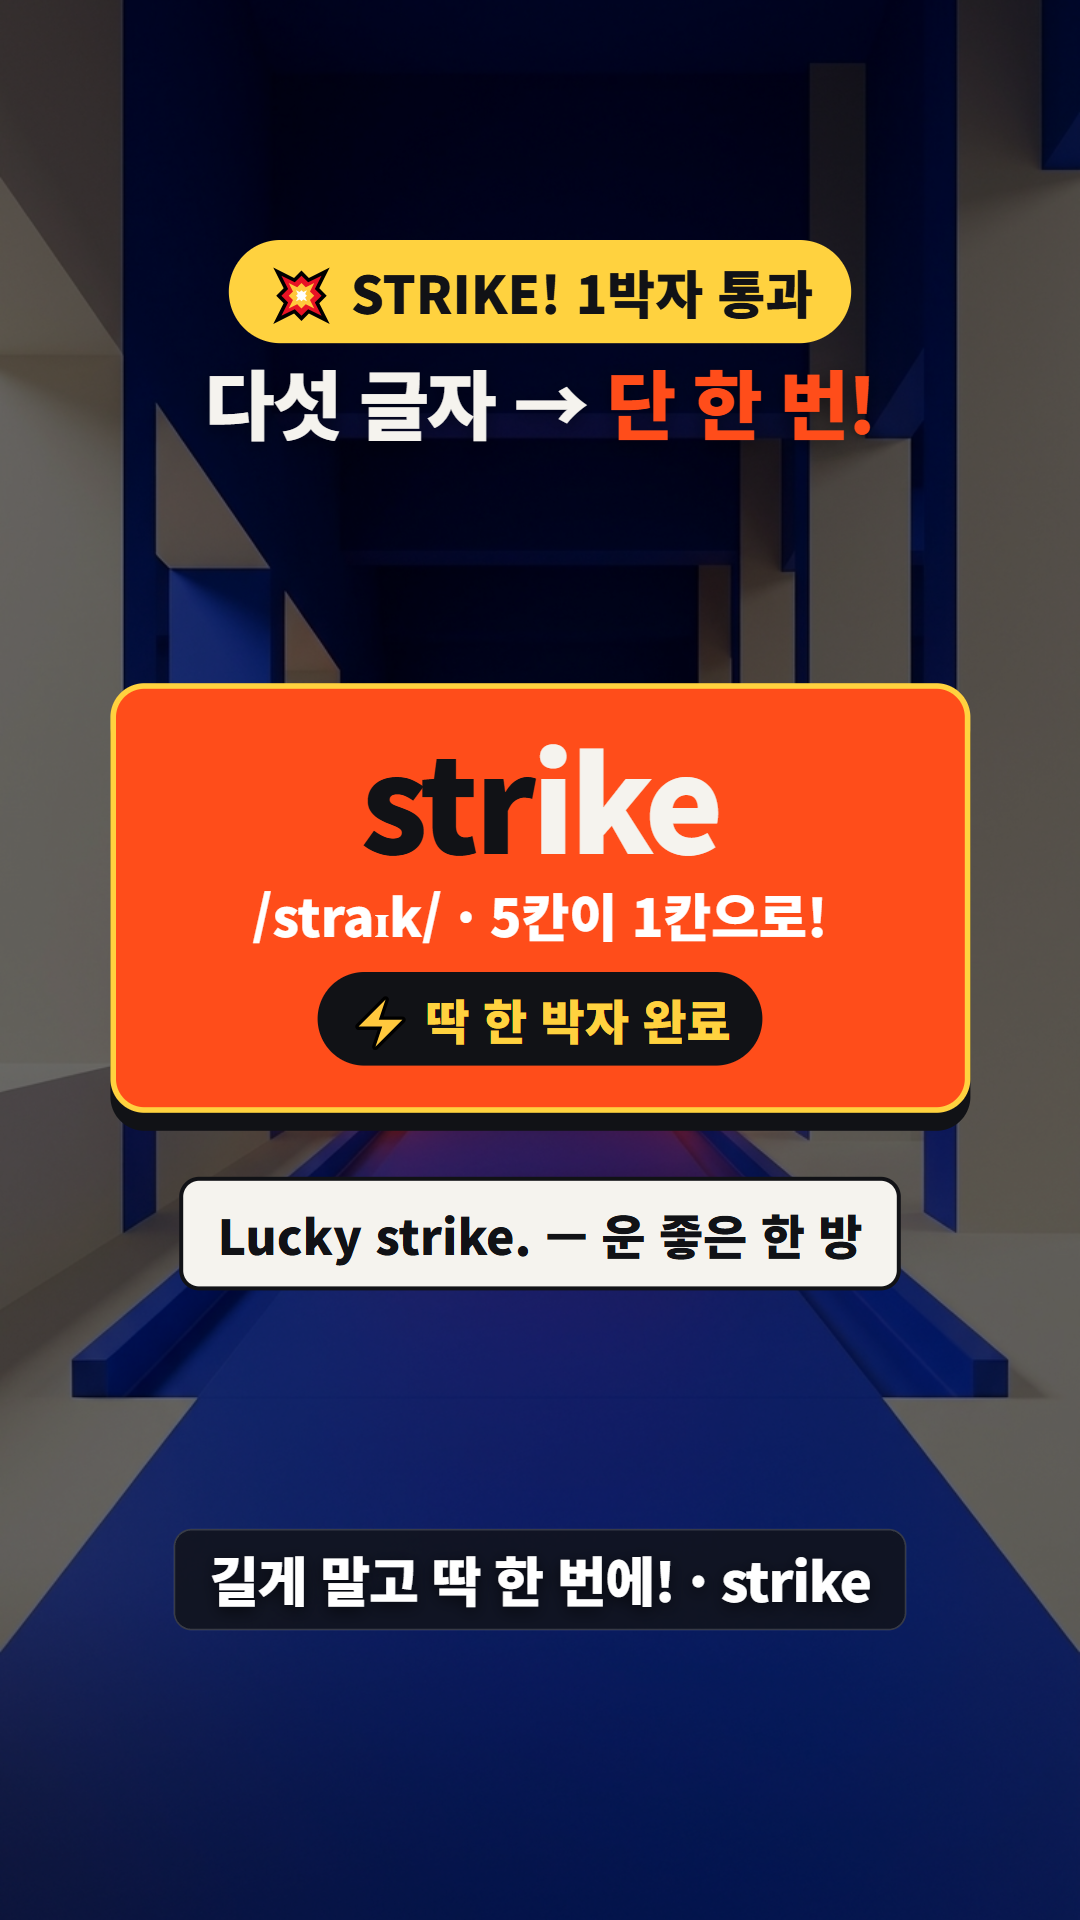
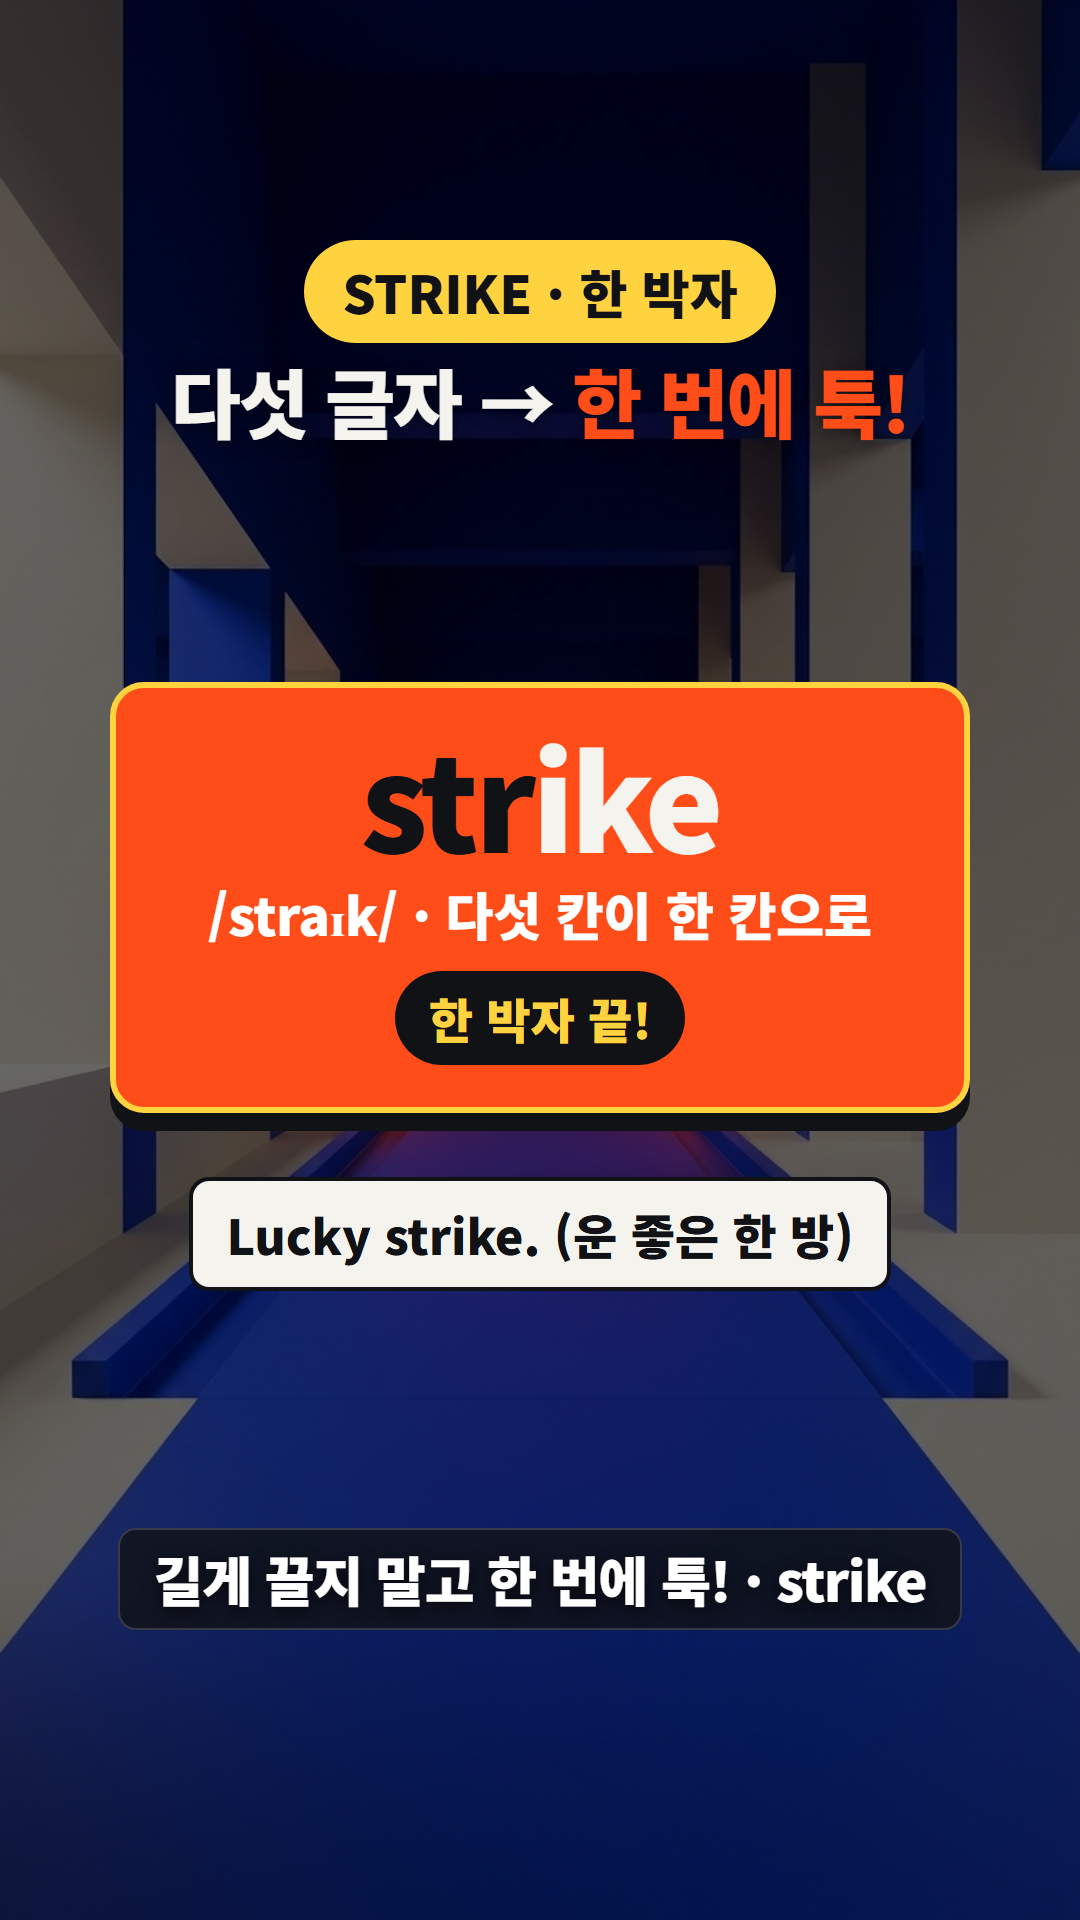
chore(ep34): slop-rewrite 기반 제목·썸네일·나레이션 AI 티 제거 및 시트·스토리보드 갱신

diff --git a/videos/ep34-shorts-consonant-cluster/FACT-CHECK.md b/videos/ep34-shorts-consonant-cluster/FACT-CHECK.md
@@ -1,6 +1,6 @@
 # 팩트 체크 — ep34-shorts-consonant-cluster (비교 시트 `ep34-shorts-consonant-cluster`)
 
-확인일: 2026-11-22.
+확인일: 2026-11-22 (`slop-rewrite` 윤문 반영).
 검증 기준: **Cambridge Dictionary (UK/US)** 발음기호(IPA)·음절 수, **국립국어원 외래어 표기법**(영어 표기 세칙), 한국인 영어 학습자 자음군 모음 삽입(Vowel Epenthesis) 음운론 근거 대조.
 ※ 주의: 검색 요약으로 확인한 항목은 `일부 확인` 또는 사전 직접 대조 기준을 명시하고, 실제 원어민 단어 음성(`assets/voice-en-clean/*.wav`)은 승인 후 생성 직후 청취·whisper 실측 대조한다.
 
@@ -32,15 +32,16 @@
 
 | 위치 | 주장 / 문구 | 판정 | 근거 및 검토 | 조치 |
 |---|---|---|---|---|
-| 제목 1안 | `스트레스, 원어민은 네 글자가 아니라 딱 한 박자로 말합니다` | 확인됨 | `stress`는 Cambridge 사전 1음절(`/stres/`), 한글 외래어 표기 `스트레스`는 4글자 | 유지 |
-| 제목 2안 | `스프레이·스크린·스트라이크, '으'를 넣는 순간 영어가 안 들립니다` | 일부 확인 | 모음 삽입으로 박자가 늘어나 원어민 음절 리듬과 괴리가 생기는 것은 음운론상 사실이나, "무조건 100% 안 들린다"로 과장하지 않고 본문·설명글에서 "다르게 들리기 쉽다"로 완화 | 설명글에 완화 문구 반영 완료 |
-| 컷 0 (`c00`) | `스트레스, 영어로 네 글자가 아닙니다.` | 확인됨 | `stress` 1음절 vs 한국어 `스트레스` 4글자. 귀로 듣기 점검: 중의적 오해 없음 | 유지 |
-| 컷 1 (`c01`) | `자음 사이 '으'를 빼면 한 박자입니다.` | 확인됨(쉬운 표현) | 한국어 음절 초성 제약(최대 1자음)으로 발생하는 모음 삽입(Vowel Epenthesis)을 전문용어 없이 정확히 풀어냄 | 유지 |
-| 컷 2~3 (`c02`, `c03`) | `첫째, 스트레스.` / `앞 자음은 바람만 스치세요.` (`No stress.`) | 확인됨 | `stress` `/stres/` 1음절, `No stress.` 일상 구어 자연스러움 확인 | 유지 |
-| 컷 4~5 (`c04`, `c05`) | `둘째, 스크린.` / `세 글자가 한 번에 뭉칩니다.` (`Big screen.`) | 확인됨 | `screen` `/skriːn/` 1음절, 한글 표기 `스크린` 3글자 정확 일치 | 유지 |
-| 컷 6~7 (`c06`, `c07`) | `셋째, 스프레이.` / `한 번 뿜듯 숨으로 뱉으세요.` (`Hair spray.`) | 확인됨 | `spray` `/spreɪ/` 1음절, 한글 표기 `스프레이` 4글자 정확 일치 | 유지 |
-| 컷 9~10 (`c09`, `c10`) | `다섯 글자, 한 박자에 도전!` / `길게 말고 딱 한 번에!` (`Lucky strike.`) | 확인됨 | `strike` `/straɪk/` 1음절, 한글 표기 `스트라이크` 5글자 정확 일치. 컷 9에서 정답 소리 선공개 없이 1.5초 참여 창 유지 | 유지 |
-| 컷 11 · 고정 댓글 | `spring`, `script`, `splash`, `street` 4단어 | 확인됨 | 4단어 모두 Cambridge 1음절·예문 문법 자연스러움 확인 | 유지 |
+| 제목 1안 | `스트레스, 영어로는 왜 한 박자밖에 안 될까요?` | 확인됨 | `stress`는 Cambridge 사전 1음절(`/stres/`), 한글 외래어 표기 `스트레스`는 4글자 | 유지 |
+| 제목 2안 | `스크린이랑 스프레이, 우리만 '으'를 넣어서 길어졌어요` | 확인됨 | 한국어 초성 1자음 음절 구조로 인해 `screen`(3글자)·`spray`(4글자) 표기·발음에 모음 `'으'`가 들어가 박자가 늘어남(한글 외래어 표기가 틀렸다는 뜻이 아님을 본문·설명글에서 명확히 구분) | 유지 |
+| 제목 3안 | `스트라이크 다섯 글자, 한 박자로 읽을 수 있나요?` | 확인됨 | `strike` `/straɪk/` 1음절 vs 한글 외래어 표기 `스트라이크` 5글자 | 유지 |
+| 컷 0 (`c00`) | `스트레스, 영어로는 한 번에 끝나요.` | 확인됨 | `stress` 1음절(`/stres/`). 귀로 듣기 점검: 중의적 오해 없음 | 유지 |
+| 컷 1 (`c01`) | `자음 사이 '으'만 쏙 빼면 되거든요.` | 확인됨(쉬운 표현) | 한국어 초성 제약으로 끼어드는 모음 삽입(Vowel Epenthesis)을 전문용어 없이 구어체로 정확히 풀어냄 | 유지 |
+| 컷 2~3 (`c02`, `c03`) | `스트레스부터!` / `앞엔 바람만 가볍게 스쳐요.` (`No stress.`) | 확인됨 | `stress` `/stres/` 1음절, `No stress.` 일상 구어 자연스러움 확인 | 유지 |
+| 컷 4~5 (`c04`, `c05`) | `스크린도 같아요.` / `세 글자가 한 번에 쫙 붙죠.` (`Big screen.`) | 확인됨 | `screen` `/skriːn/` 1음절, 한글 표기 `스크린` 3글자 정확 일치 | 유지 |
+| 컷 6~7 (`c06`, `c07`) | `스프레이는요?` / `칙 한 번 뿜듯 숨으로 뱉어요.` (`Hair spray.`) | 확인됨 | `spray` `/spreɪ/` 1음절, 한글 표기 `스프레이` 4글자 정확 일치 | 유지 |
+| 컷 9~10 (`c09`, `c10`) | `다섯 글자, 직접 해 볼까요?` / `길게 끌지 말고 한 번에 툭!` (`Lucky strike.`) | 확인됨 | `strike` `/straɪk/` 1음절, 한글 표기 `스트라이크` 5글자 정확 일치. 컷 9에서 정답 소리 선공개 없이 1.5초 참여 창 유지 | 유지 |
+| 컷 11 · 고정 댓글 | `고정 댓글에 네 단어 더 적어 뒀어요.` (`spring`, `script`, `splash`, `street`) | 확인됨 | 4단어 모두 Cambridge 1음절·예문 문법 자연스러움 확인 | 유지 |
 | 원어민 음성 | `stress`, `screen`, `spray`, `strike` 실제 생성 음원 | 청취 필요 | Gate 1 승인 후 AI Studio 원어민 음성 생성 시 단음절·끝소리 끊김 여부 청취·whisper 검증 예정 | 생성 후 청취 검증 |
 
 ---
@@ -49,4 +50,4 @@
 
 - **한국어 외래어 표기(`스트레스·스크린·스프레이·스트라이크`)가 틀린 한국어라는 뜻이 아니다**: 국립국어원 외래어 표기법은 한국어 음절 구조(초성 자음 최대 1개)에 맞춘 정확한 한글 표기다. 다만 **영어로 말하고 들을 때** 이 한글 글자 수대로 박자를 늘려 읽으면 원어민의 1박자 리듬과 크게 달라진다는 점을 짚는다.
 - **이중모음(`/eɪ/`, `/aɪ/`)의 미세한 울림**: `spray`(`/spreɪ/`), `strike`(`/straɪk/`)는 가운데 모음이 이중모음이라 단모음(`stress`)보다 입안 울림이 아주 약간 길지만, 영어 음운 체계상 모두 **엄연한 1음절(한 박자)** 단어다.
-- **시청자 귀로 듣기 점검**: 전체 12컷 낭독문에서 `"이 소리"`, `"이 둘도 똑같습니다"` 같은 동음이의 오해 표현이 없으며, 아라비아 숫자 입말(`4글자` 등) 0건·금지어 0건을 확인했다.
+- **시청자 귀로 듣기 점검**: 전체 12컷 낭독문에서 `"이 소리"`, `"이 둘도 똑같습니다"` 같은 동음이의 오해 표현이 없으며, 아라비아 숫자 입말(`4글자` 등) 0건·금지어 0건·`slop-rewrite`(`check_ai_tells`·`check_taste --strict`·`check_fidelity --strict`) 0건 통과를 확인했다.

diff --git a/knowledge/handoff/LATEST.md b/knowledge/handoff/LATEST.md
@@ -17,7 +17,7 @@
   - 시험 변수(#3): 비레이아웃 0.3초 청각 시그니처 4회 + 브라이트 에디토리얼 실사·가로 정중앙 대칭·확대 3060 폰트. 12/12 토 이후 공개 7일 결과 정산 예정.
 - **EP33 쇼츠 `videos/ep33-shorts-swallowed-t`**: **12/08 화 20:00 KST 예약 완료** (ID `fVY5BNQ7Ciw`, 교육 27, 한국어 ko, 40.0s, 1080x1920 30fps, `containsSyntheticMedia: true`, 재생목록 `PLCbnHG8SDRes`, 한국어 자막 `subtitles-ko.srt` 게시, `community-post.json` 예습 퀴즈 `2026-12-08T09:00:00Z`).
   - 시험 변수(#4): 촉각 실물 매크로 + 0.15초 호흡 멈춤·코 파동 도해 + 3D 아치 통과 게이트 1.5초 직접 말하기 챌린지 + 형광펜 체크리스트. 12/15 화 이후 공개 7일 결과 정산 예정.
-- **EP34 쇼츠 `videos/ep34-shorts-consonant-cluster`**: **비교 시트 v4 초안(`draft`, 12/12 토 20:00 자리, `stress·screen·spray·strike` 1박자 압축)** 작성 완료(Pinterest 스위스 코발트 × 2×2 그리드 `split-grid` × 5장 실물 매크로 × 3×4 시각 스토리보드). **다음 단계: `slop-rewrite`로 제목·썸네일 문구·나레이션 AI 티 제거 재작성 → Gate 1 승인.**
+- **EP34 쇼츠 `videos/ep34-shorts-consonant-cluster`**: **비교 시트 v4 (`draft`, 12/12 토 20:00 자리, `stress·screen·spray·strike` 1박자 압축)** `slop-rewrite`(67규칙 + `writing-taste` W-01~W-05 + `check_fidelity`) 0건 구어체 전면 재작성 및 썸네일 3종·12컷·3×4 시각 스토리보드 갱신 완료. **현재 Gate 1 승인 대기.**
 - **11/30 롱폼 방향 확정 (2026-11-20 사용자 승인 A안)**: 11/30(월) 롱폼은 1회 쉬고, 쇼츠 선행 후 11/25 EP30 쇼츠 7일 정산으로 검증된 주제를 새 포맷 롱폼으로 확장.
 - **스튜디오 조사 2단계 전환 완료 (`2026-11-20`)**: 따라잡기 0편·수집 6일(후보 87편) 달성 후 `pickReportTargets`를 조사 후보 우선(롱폼 1 + 쇼츠 1 · 같은 채널 7일 쿨다운 · 빈 형식은 손입력 폴백 · API 최근 50편 v2 배수 직접 계산)으로 전환 완료. 14일 관찰(조사 리포트 20편+) 후 사용자 재확인 뒤 3단계 착수.
 
@@ -34,7 +34,7 @@
 8. **`slop-rewrite` 한국어 AI 티 코드 검사기·취향 레이어 연결 (`2026-11-22` 사용자 지시)**: `C:\Users\yunyo\Downloads\slop-rewrite` 클론 + `.agents`/`.claude`/`~/.gemini/config/skills/slop-rewrite/SKILL.md` 진입 스킬 연결 + `taste/writing-taste.md`(`W-01`~`W-05`) 초기화. 쇼츠 카피·나레이션에는 블로그 문체 가이드를 씌우지 않고 `check_ai_tells.py`(67규칙)·`check_taste.py`·`check_fidelity.py`를 적용한다.
 
 ## 다음 할 일
-0. **즉시 (다음 세션)**: `slop-rewrite`로 EP34(`ep34-shorts-consonant-cluster`) 제목·썸네일 문자·나레이션 AI 티 제거 재작성 → 시트·썸네일·스토리보드 갱신 → Gate 1 승인 후 제작 착수.
+0. **즉시 (Gate 1 승인 대기)**: EP34(`ep34-shorts-consonant-cluster`) `slop-rewrite` 윤문 완료본 Gate 1 승인 후 3중 하이브리드 제작 착수(Omni 4클립 + TTS/원어민 음성 + Lyria 3.5 BGM + HyperFrames 조립).
 1. **11/23 월**: 스튜디오 EP23(`9d9m869BCTI`) 제목·썸네일 A/B 테스트 종료 결과 수집(`node scripts/studio-ab-tests.mjs`) 및 `REVIEW.md` 기록.
 2. **11/25 수 이후**: EP30 chocolate 쇼츠(`Ng6amm9qFrI`) 공개 7일 정산 + 검증 주제로 새 포맷 롱폼 확장 기획(2026-11-22 확정: 롱폼 포장 3원칙 · Pinterest+최신 영상미 리서치 · 시각 스토리보드 시트 · 쇼츠 끝 2초 Open Loop 연결 첫 적용).
 3. **11/28 토 이후**: EP27 dogs-cats 쇼츠(`blowoldSorE`, 11/21 공개) 공개 7일 성과 정산 및 `style-experiments.md` 기록.

diff --git a/videos/ep34-shorts-consonant-cluster/BRIEF.md b/videos/ep34-shorts-consonant-cluster/BRIEF.md
@@ -18,13 +18,13 @@ angle: consonant-cluster-one-beat
 
 ## 기본 정보
 
-- **AI 추천 제목 (1안)**: `스트레스, 원어민은 네 글자가 아니라 딱 한 박자로 말합니다`
-- **AI 추천 썸네일 (A안)**: `thumb-A.jpg` (코발트 유압 프레스 4블록 매크로 + `4글자 ✕ → 딱 1박자 ○`)
+- **AI 추천 제목 (1안)**: `스트레스, 영어로는 왜 한 박자밖에 안 될까요?`
+- **AI 추천 썸네일 (A안)**: `thumb-A.jpg` (코발트 유압 프레스 4블록 매크로 + `스트레스 / 4글자 ✕ / 1박자 ○`, 메타 라벨·하단 홍보 배너 제거)
   - 비교 시트 시안 경로: `data/youtube/transform-sheets/images/ep34-shorts-consonant-cluster/thumb-{A,B,C}.jpg`
   - 시각 스토리보드 시트: `data/youtube/transform-sheets/images/ep34-shorts-consonant-cluster/storyboard-sheet.png`
-- **형식**: 유압 압축 훅(4.0s) → 자음 사이 '으' 배출 원리(3.9s) → 세 단어 실물 매크로 제시·0.25s 스냅 압축(`stress`·`screen`·`spray`) → 무나레이션 1박자 3연타 메트로놈(3.8s) → 다섯 글자 `strike` 1.5초 원샷 발음 도전(5.2s) → 통과 스탬프 페이오프(3.6s) → 스위스 포스터 4단 체크리스트 CTA(3.4s).
-- **이 영상에만 있는 고유 코너**: 한글 3~5칸 블록이 'ㅡ' 모음을 튕겨내며 0.25초 만에 단 1칸(1박자)으로 압축되는 **'유압 1박자 스냅 압축'** + **다섯 글자 `STRIKE` 1.5초 원샷 도전**.
-- **목표 길이**: 44.0초, 12컷 (분당 16.4컷, 컷 변동 CV 18.2%).
+- **형식**: 유압 압축 훅(3.8s) → 자음 사이 '으' 빼기 원리(3.5s) → 세 단어 실물 매크로 제시·0.25s 스냅 압축(`stress`·`screen`·`spray`) → 무나레이션 1박자 3연타 메트로놈(3.7s) → 다섯 글자 `strike` 1.5초 직접 읽기 도전(5.3s) → 통과 스탬프 페이오프(3.7s) → 스위스 포스터 4단 체크리스트 CTA(3.8s).
+- **이 영상에만 있는 고유 코너**: 한글 3~5칸 블록이 'ㅡ' 모음을 튕겨내며 0.25초 만에 단 1칸(1박자)으로 압축되는 **'유압 1박자 스냅 압축'** + **다섯 글자 `STRIKE` 1.5초 안에 읽기 도전**.
+- **목표 길이**: 44.0초, 12컷 (분당 16.4컷, 컷 변동 CV 18.4%).
 
 ## 시험 변수 (Gate 1 검토 대상 2건)
 
